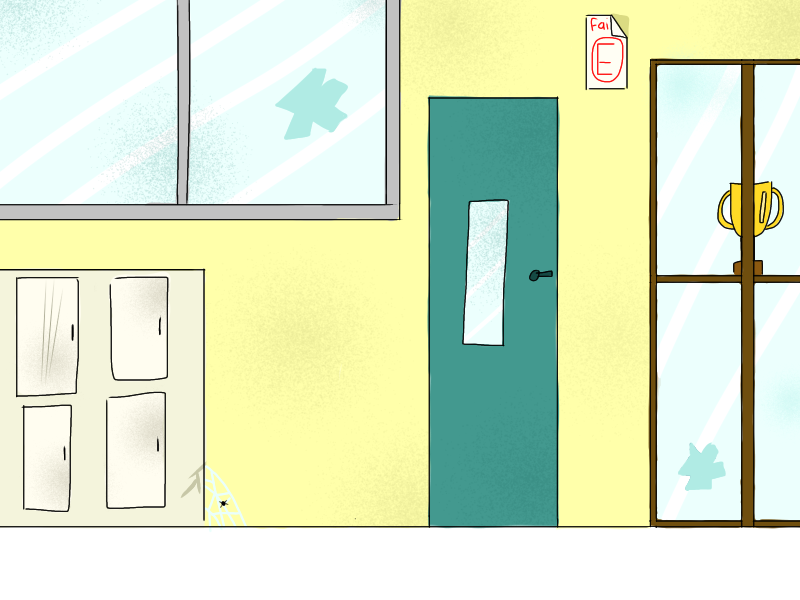
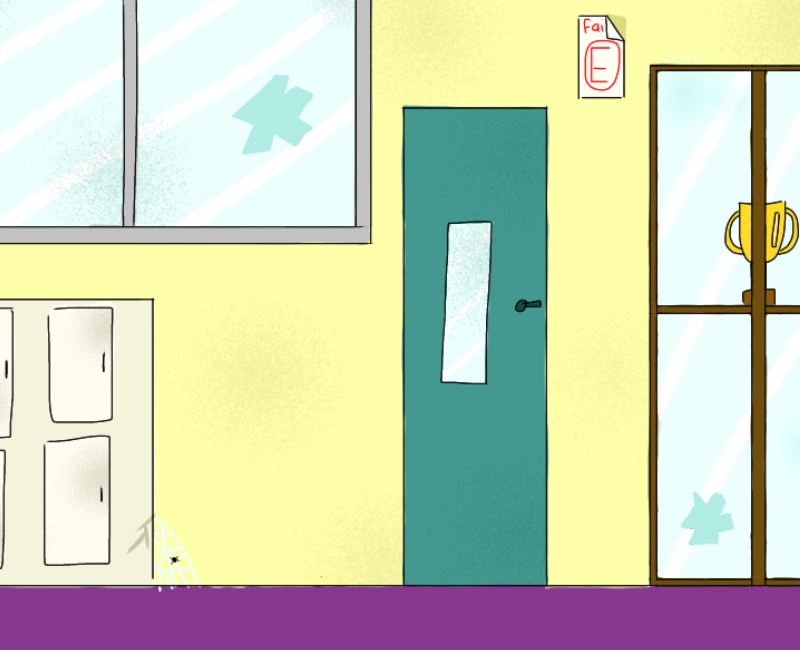
changes to ground code MM

diff --git a/game.js b/game.js
@@ -5,6 +5,7 @@ var game = new Phaser.Game(800, 600, Phaser.CANVAS, 'theGame', {
 });
 
 var player;
+var ground;
 
 function preload() {
 
@@ -27,11 +28,13 @@ function create() {
   //we will enable physics for any object that is created in this group
   platforms.enableBody = true;
   //here we create the ground
-  var ground = platforms.create(0, game.world.height - 64, 'ground');
-  //scale it to fit the width of the game
-  ground.scale.setTo(2, 2);
+  var ground = platforms.create(0, game.world.height - 84, 'ground');
   //this stops it from falling away when you jump on it
   ground.body.immovable = true;
+  var ledge = platforms.create(400, 400, 'ground');
+  ledge.body.immovable = true;
+  ledge = platforms.create(-150, 250, 'ground');
+  ledge.body.immovable = true;
 
   //Phaser built in Keyboard manager
   cursors = game.input.keyboard.createCursorKeys();
